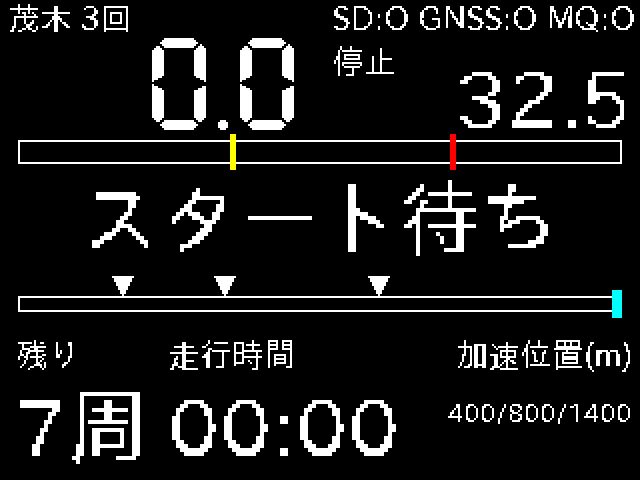
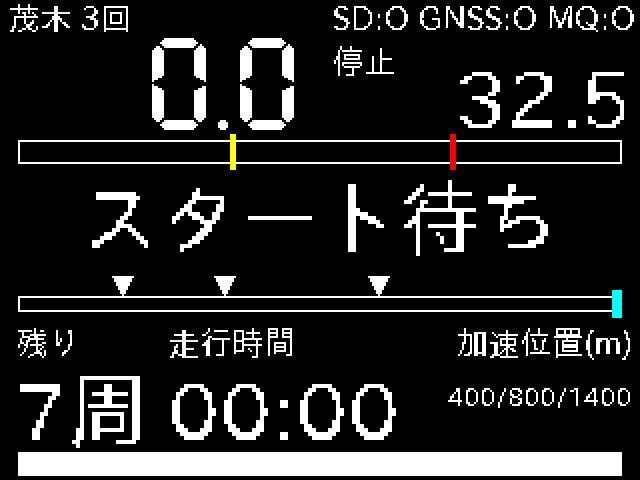
feat: 走行支援画面に規定時間までの残り時間の帯を表示
従来のモード0にあった経過時間/規定時間の帯グラフを走行支援画面の下端に戻す。
位置バーの現在地と同じ向きにそろえ、時間が進むと左から右へ短くなるようにした。
色は走行時間の数字と同じ（直近の通過が遅れていればマゼンタ）。
帯を入れるため下段の文字を上へ詰め、READMEの画面例を描き直した。

Changed region(s): [[0.0312, 0.6875, 0.9688, 1.0], [0.7188, 0.6562, 1.0, 0.7812], [0.6875, 0.8125, 1.0, 0.875]]

diff --git a/src/main.cpp b/src/main.cpp
@@ -1054,20 +1054,25 @@ void drawStrategyMode() {
   const int restlaps = max(0, static_cast<int>(totallaps) - static_cast<int>(Lapcount));
   lcd_s.setFont(&fonts::lgfxJapanGothicP_16);
   lcd_s.setTextDatum(TL_DATUM);
-  lcd_s.drawString(restlaps == 1 ? "最終周" : "残り", 8, 168);
-  lcd_s.drawString("走行時間", 84, 168);
+  lcd_s.drawString(restlaps == 1 ? "最終周" : "残り", 8, 162);
+  lcd_s.drawString("走行時間", 84, 162);
   lcd_s.setFont(&fonts::lgfxJapanGothicP_20);
   lcd_s.setTextSize(2);
   snprintf(buf, sizeof(buf), "%d周", restlaps);
-  lcd_s.drawString(buf, 8, 190);
+  lcd_s.drawString(buf, 8, 182);
 
   // 走行時間（直近の通過が遅れていればマゼンタ）
+  const int timeColor = (plainBg && out.bumpKmh > 0.0f) ? TFT_MAGENTA : fg;
   formatMinSec(buf, sizeof(buf), worktime);
-  if (plainBg && out.bumpKmh > 0.0f) {
-    lcd_s.setTextColor(TFT_MAGENTA);
-  }
-  lcd_s.drawString(buf, 84, 190);
+  lcd_s.setTextColor(timeColor);
+  lcd_s.drawString(buf, 84, 182);
   lcd_s.setTextColor(fg);
+
+  // 規定時間までの残り時間の帯。位置バーの現在地と同じ向きにそろえ、時間が進むと左から右へ短くなる
+  const float elapsedRatio = (limittime > 0) ? constrain(worktime / static_cast<float>(limittime), 0.0f, 1.0f) : 0.0f;
+  const int elapsedPx = static_cast<int>(elapsedRatio * barW);
+  lcd_s.drawRect(barX - 1, 226, barW + 2, 12, fg);
+  lcd_s.fillRect(barX + elapsedPx, 227, barW - elapsedPx, 10, timeColor);
 
   // 直近の通過タイムと目標との差。まだ通過していなければ加速開始位置の一覧
   lcd_s.setTextDatum(TR_DATUM);
@@ -1082,25 +1087,25 @@ void drawStrategyMode() {
     } else if (plainBg && out.bumpKmh < 0.0f) {
       lcd_s.setTextColor(TFT_CYAN);
     }
-    lcd_s.drawString(buf, 316, 190);
+    lcd_s.drawString(buf, 316, 182);
     lcd_s.setTextColor(fg);
     lcd_s.setTextSize(1);
     lcd_s.setFont(&fonts::lgfxJapanGothicP_16);
     char splitStr[8];
     formatMinSec(splitStr, sizeof(splitStr), out.splitS);
     snprintf(buf, sizeof(buf), "%u周 %s", static_cast<unsigned int>(out.splitLap), splitStr);
-    lcd_s.drawString(buf, 316, 168);
+    lcd_s.drawString(buf, 316, 162);
   } else {
     lcd_s.setTextSize(1);
     lcd_s.setFont(&fonts::lgfxJapanGothicP_16);
-    lcd_s.drawString("加速位置(m)", 316, 168);
+    lcd_s.drawString("加速位置(m)", 316, 162);
     lcd_s.setFont(&fonts::lgfxJapanGothicP_12);
     int len = 0;
     buf[0] = '\0';
     for (uint8_t i = 0; i < pattern.markCount && len < static_cast<int>(sizeof(buf)) - 8; i++) {
       len += snprintf(buf + len, sizeof(buf) - len, i == 0 ? "%d" : "/%d", static_cast<int>(pattern.marksM[i]));
     }
-    lcd_s.drawString(buf, 316, 200);
+    lcd_s.drawString(buf, 316, 192);
   }
   lcd_s.setTextSize(1);
 }
